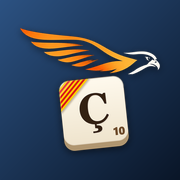
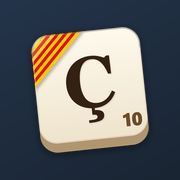
Icones sense falcó i pantalla d'inici d'Android blau pissarra

diff --git a/sw.js b/sw.js
@@ -1,7 +1,7 @@
 // Paraules · Xoriguer · funcionament sense connexió (el solitari funciona sense internet)
 // IMPORTANT: totes les apps Xoriguer comparteixen l'origen xorigu3r.github.io.
 // Aquest fitxer NOMÉS toca les memòries cau que comencen per "paraules-".
-const VERSION = "paraules-v1.2";
+const VERSION = "paraules-v1.2-icones";
 const APP = [ "marca/marca.css", "marca/Montserrat-ExtraBold.ttf",
   "./", "index.html", "motor.js", "firebase-config.js", "manifest.webmanifest",
   "img/logo.jpg", "img/icona.png", "img/icona-512.png", "img/apple-touch-icon.png", "img/deco.png", "img/fusta.jpg",
